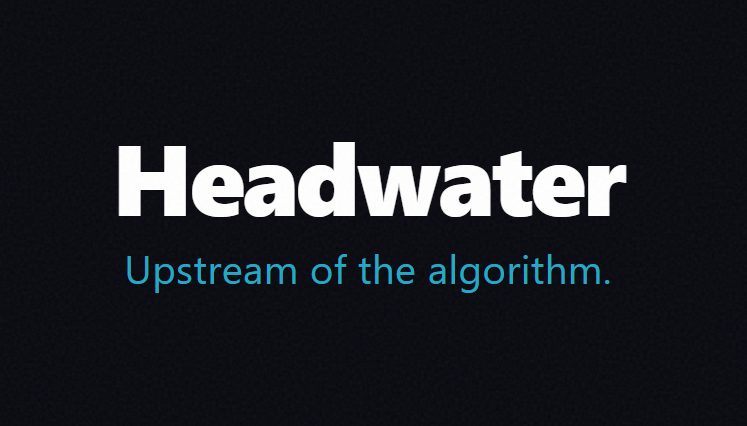
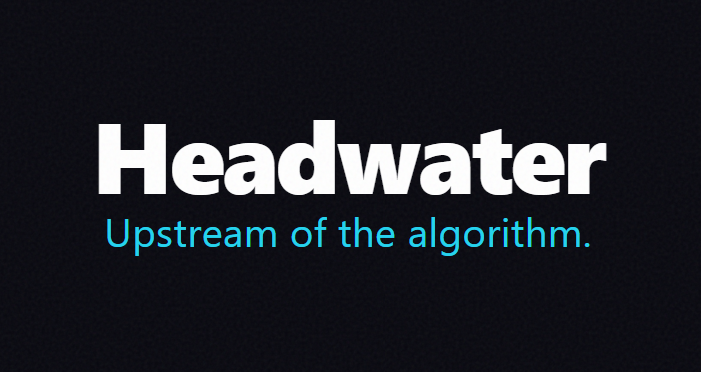
add nudge email job, video search, OG image fixes
- Nudge email: sendNudge() in email service, send-nudges cron job (daily noon UTC), nudge_sent_at migration, preview-nudge endpoint
- My Videos: client-side search filter
- OG image: fix tagline cyan to brand #22d3ee, tighten wordmark/tagline gap, bump descriptor contrast
- Following page: preview nudge email button

Changed region(s): [[0.1198, 0.3253, 0.8688, 0.5323], [0.1498, 0.5618, 0.8388, 0.7097]]

diff --git a/src/services/email.js b/src/services/email.js
@@ -145,6 +145,37 @@ async function sendDigest(toEmail, summaries) {
   });
 }
 
+async function sendNudge(toEmail) {
+  const followUrl = `${APP_URL}/following`;
+  const tryUrl = APP_URL;
+
+  const html = `<!DOCTYPE html><html><body style="font-family:-apple-system,BlinkMacSystemFont,'Segoe UI',sans-serif;background:#fff;margin:0;padding:0;">
+<div style="max-width:480px;margin:0 auto;padding:48px 24px;">
+  <div style="font-size:13px;color:#999;margin-bottom:24px;">Headwater</div>
+  <p style="font-size:15px;color:#333;line-height:1.7;margin:0 0 12px;">Thanks for signing up — glad you're here.</p>
+  <p style="font-size:15px;color:#333;line-height:1.7;margin:0 0 24px;">You haven't added any channels yet, so your digest is empty. It only takes 30 seconds: add one channel you already follow on YouTube and tomorrow morning you'll have a summary of anything new.</p>
+  <a href="${followUrl}" style="display:inline-block;background:#22d3ee;color:#0c0f14;font-size:14px;font-weight:600;padding:12px 24px;border-radius:8px;text-decoration:none;margin-bottom:24px;">Follow your first channel →</a>
+  <p style="font-size:14px;color:#555;line-height:1.7;margin:0 0 16px;">Not ready yet? Paste any YouTube URL and see what a summary looks like first.</p>
+  <a href="${tryUrl}" style="font-size:14px;font-weight:600;color:#22d3ee;text-decoration:none;">Try a video →</a>
+  <p style="font-size:12px;color:#bbb;margin-top:40px;line-height:1.6;">— Adam at Headwater<br><a href="${followUrl}" style="color:#bbb;">Unsubscribe</a></p>
+</div>
+</body></html>`;
+
+  const text = `Thanks for signing up — glad you're here.\n\nYou haven't added any channels yet, so your digest is empty. It only takes 30 seconds: add one channel you already follow on YouTube and tomorrow morning you'll have a summary of anything new.\n\nFollow your first channel: ${followUrl}\n\nNot ready yet? Paste any YouTube URL and see what a summary looks like first.\n\nTry a video: ${tryUrl}\n\n— Adam at Headwater\nUnsubscribe: ${followUrl}`;
+
+  await getResend().emails.send({
+    from: FROM,
+    to: toEmail,
+    subject: 'Finish setting up Headwater',
+    html,
+    text,
+    headers: {
+      'List-Unsubscribe': `<${followUrl}>`,
+      'List-Unsubscribe-Post': 'List-Unsubscribe=One-Click',
+    },
+  });
+}
+
 async function sendPasswordReset(toEmail, resetUrl) {
   await getResend().emails.send({
     from: FROM,
@@ -177,4 +208,4 @@ async function sendVerificationEmail(toEmail, verifyUrl) {
   });
 }
 
-module.exports = { sendDigest, sendPasswordReset, sendVerificationEmail };
+module.exports = { sendDigest, sendNudge, sendPasswordReset, sendVerificationEmail };

diff --git a/client/src/pages/ChannelsPage.jsx b/client/src/pages/ChannelsPage.jsx
@@ -22,6 +22,7 @@ export default function FollowingPage() {
   const [togglingDigest, setTogglingDigest] = useState(false);
   const [scanStatus, setScanStatus] = useState(null);
   const [previewSending, setPreviewSending] = useState(false);
+  const [nudgeSending, setNudgeSending] = useState(false);
   const [addingPopular, setAddingPopular] = useState(null);
 
   function showToast(msg) {
@@ -141,6 +142,20 @@ export default function FollowingPage() {
     }
   }
 
+  async function handlePreviewNudge() {
+    setNudgeSending(true);
+    try {
+      const res = await fetch('/api/auth/preview-nudge', { method: 'POST', credentials: 'include' });
+      const data = await res.json();
+      if (res.ok) showToast('Nudge email sent — check your inbox.');
+      else showToast(data.error || 'Could not send nudge.');
+    } catch {
+      showToast('Could not send nudge.');
+    } finally {
+      setNudgeSending(false);
+    }
+  }
+
   async function handleAddPopular(ch) {
     setAddingPopular(ch.handle);
     try {
@@ -195,6 +210,13 @@ export default function FollowingPage() {
         <span className="digest-preview-sub">See what your morning digest looks like — we'll send one to your inbox now.</span>
         <button className="btn-preview-digest" onClick={handlePreviewDigest} disabled={previewSending}>
           {previewSending ? 'Sending…' : 'Send me a preview'}
+        </button>
+      </div>
+
+      <div className="digest-preview-row">
+        <span className="digest-preview-sub">Preview the nudge email sent to users who haven't followed a channel yet.</span>
+        <button className="btn-preview-digest" onClick={handlePreviewNudge} disabled={nudgeSending}>
+          {nudgeSending ? 'Sending…' : 'Preview nudge email'}
         </button>
       </div>
 

diff --git a/client/src/pages/VideosPage.jsx b/client/src/pages/VideosPage.jsx
@@ -50,6 +50,7 @@ export default function VideosPage() {
   const [emailToast, setEmailToast] = useState(null);
   const [filterCategory, setFilterCategory] = useState(null);
   const [filterChannel, setFilterChannel] = useState(null);
+  const [search, setSearch] = useState('');
 
   function loadVideos() {
     setError(false);
@@ -114,14 +115,23 @@ export default function VideosPage() {
       {videos.length > 0 && (() => {
         const allCategories = [...new Set(videos.flatMap((v) => v.categories || []))].sort();
         const allChannels = [...new Set(videos.map((v) => v.channelName).filter(Boolean))].sort();
+        const q = search.trim().toLowerCase();
         const filtered = videos.filter((v) => {
           if (filterCategory && !(v.categories || []).includes(filterCategory)) return false;
           if (filterChannel && v.channelName !== filterChannel) return false;
+          if (q && !`${v.title || ''} ${v.channelName || ''}`.toLowerCase().includes(q)) return false;
           return true;
         });
         return (
           <>
             <div className="filter-bar">
+              <input
+                className="url-input videos-search"
+                type="text"
+                placeholder="Search videos…"
+                value={search}
+                onChange={(e) => setSearch(e.target.value)}
+              />
               <div className="filter-dropdowns">
                 {allChannels.length > 0 && (
                   <select className="filter-select" value={filterChannel || ''} onChange={(e) => setFilterChannel(e.target.value || null)}>

diff --git a/src/jobs/send-nudges.js b/src/jobs/send-nudges.js
@@ -1,0 +1,45 @@
+const cron = require('node-cron');
+const { db } = require('../db');
+const { sendNudge } = require('../services/email');
+
+// Users who signed up more than 24h ago, have no subscriptions, no saved videos,
+// and haven't been nudged yet.
+async function sendNudges() {
+  console.log('[nudge] starting');
+
+  if (!process.env.RESEND_API_KEY) {
+    console.warn('[nudge] RESEND_API_KEY not set, skipping');
+    return;
+  }
+
+  const since = new Date(Date.now() - 24 * 60 * 60 * 1000);
+
+  const users = await db('users')
+    .whereNull('nudge_sent_at')
+    .where('created_at', '<', since)
+    .whereNotIn('id', db('subscriptions').select('user_id').whereNotNull('user_id'))
+    .whereNotIn('id', db('user_saves').select('user_id').where('dismissed', false))
+    .select('id', 'email');
+
+  console.log(`[nudge] ${users.length} user(s) to nudge`);
+
+  for (const user of users) {
+    try {
+      await sendNudge(user.email);
+      await db('users').where('id', user.id).update({ nudge_sent_at: new Date() });
+      console.log(`[nudge] sent to ${user.email}`);
+    } catch (err) {
+      console.error(`[nudge] failed for ${user.email}:`, err.message);
+    }
+  }
+
+  console.log('[nudge] done');
+}
+
+function startNudgeJob() {
+  // Run daily at noon UTC (8am ET)
+  cron.schedule('0 12 * * *', sendNudges);
+  console.log('[nudge] scheduled — runs daily at noon UTC');
+}
+
+module.exports = { startNudgeJob, sendNudges };

diff --git a/client/src/app.css b/client/src/app.css
@@ -304,12 +304,12 @@ body {
 /* Summary header: channel + Watch CTA */
 .summary-header {
   display: flex;
-  align-items: center;
+  align-items: flex-start;
   justify-content: space-between;
   gap: 12px;
   margin-bottom: 12px;
 }
-.summary-channel-group { display: flex; align-items: center; gap: 10px; }
+.summary-channel-group { display: flex; align-items: flex-start; gap: 10px; }
 .summary-channel {
   font-size: 13px;
   color: #22d3ee;
@@ -982,6 +982,7 @@ body {
 .filter-bar { display: flex; align-items: center; gap: 12px; margin-bottom: 16px; flex-wrap: wrap; }
 .filter-group { display: flex; flex-wrap: wrap; gap: 6px; }
 .filter-dropdowns { display: flex; gap: 8px; margin-left: auto; }
+.videos-search { flex: 1; min-width: 160px; max-width: 280px; padding: 7px 12px; font-size: 13px; }
 .filter-select { background: #0c111d; border: 1px solid #1e293b; color: #94a3b8; font-size: 13px; padding: 5px 10px; border-radius: 6px; cursor: pointer; }
 .filter-select:focus { outline: none; border-color: #22d3ee; }
 .filter-select option { background: #0c111d; }

diff --git a/src/server.js b/src/server.js
@@ -21,6 +21,7 @@ const videosRouter = require('./routes/videos');
 const { errorHandler } = require('./middleware/errorHandler');
 const { startPolling } = require('./jobs/poll-channels');
 const { startDigestJob } = require('./jobs/send-digests');
+const { startNudgeJob } = require('./jobs/send-nudges');
 
 const app = express();
 const PORT = process.env.PORT || 3001;
@@ -109,6 +110,7 @@ async function start() {
 
   startPolling();
   startDigestJob();
+  startNudgeJob();
 
   app.listen(PORT, () => {
     console.log(`Server running on http://localhost:${PORT}`);

diff --git a/src/routes/auth.js b/src/routes/auth.js
@@ -199,4 +199,16 @@ router.delete('/me', async (req, res, next) => {
   }
 });
 
+// POST /api/auth/preview-nudge — send the nudge email to the logged-in user for preview
+router.post('/preview-nudge', async (req, res, next) => {
+  if (!req.user) return res.status(401).json({ error: 'Not authenticated.' });
+  try {
+    const { sendNudge } = require('../services/email');
+    await sendNudge(req.user.email);
+    res.json({ ok: true });
+  } catch (err) {
+    next(err);
+  }
+});
+
 module.exports = router;

diff --git a/src/db/index.js b/src/db/index.js
@@ -87,6 +87,11 @@ async function migrate() {
         t.timestamp('verification_token_expires');
       });
     }
+    // Nudge email tracking
+    const hasNudgeSentAt = await db.schema.hasColumn('users', 'nudge_sent_at');
+    if (!hasNudgeSentAt) {
+      await db.schema.alterTable('users', (t) => t.timestamp('nudge_sent_at'));
+    }
   }
 
   const hasSaves = await db.schema.hasTable('user_saves');

diff --git a/client/public/og-preview.html b/client/public/og-preview.html
@@ -37,15 +37,15 @@
     .descriptor {
       font-size: 22px;
       font-weight: 400;
-      color: #94a3b8;
+      color: #cbd5e1;
       margin-top: -8px;
     }
     .tagline {
       font-size: 32px;
       font-weight: 400;
-      color: #22a8c4;
+      color: #22d3ee;
       letter-spacing: 0.01em;
-      margin-top: -16px;
+      margin-top: -28px;
     }
   </style>
 </head>
